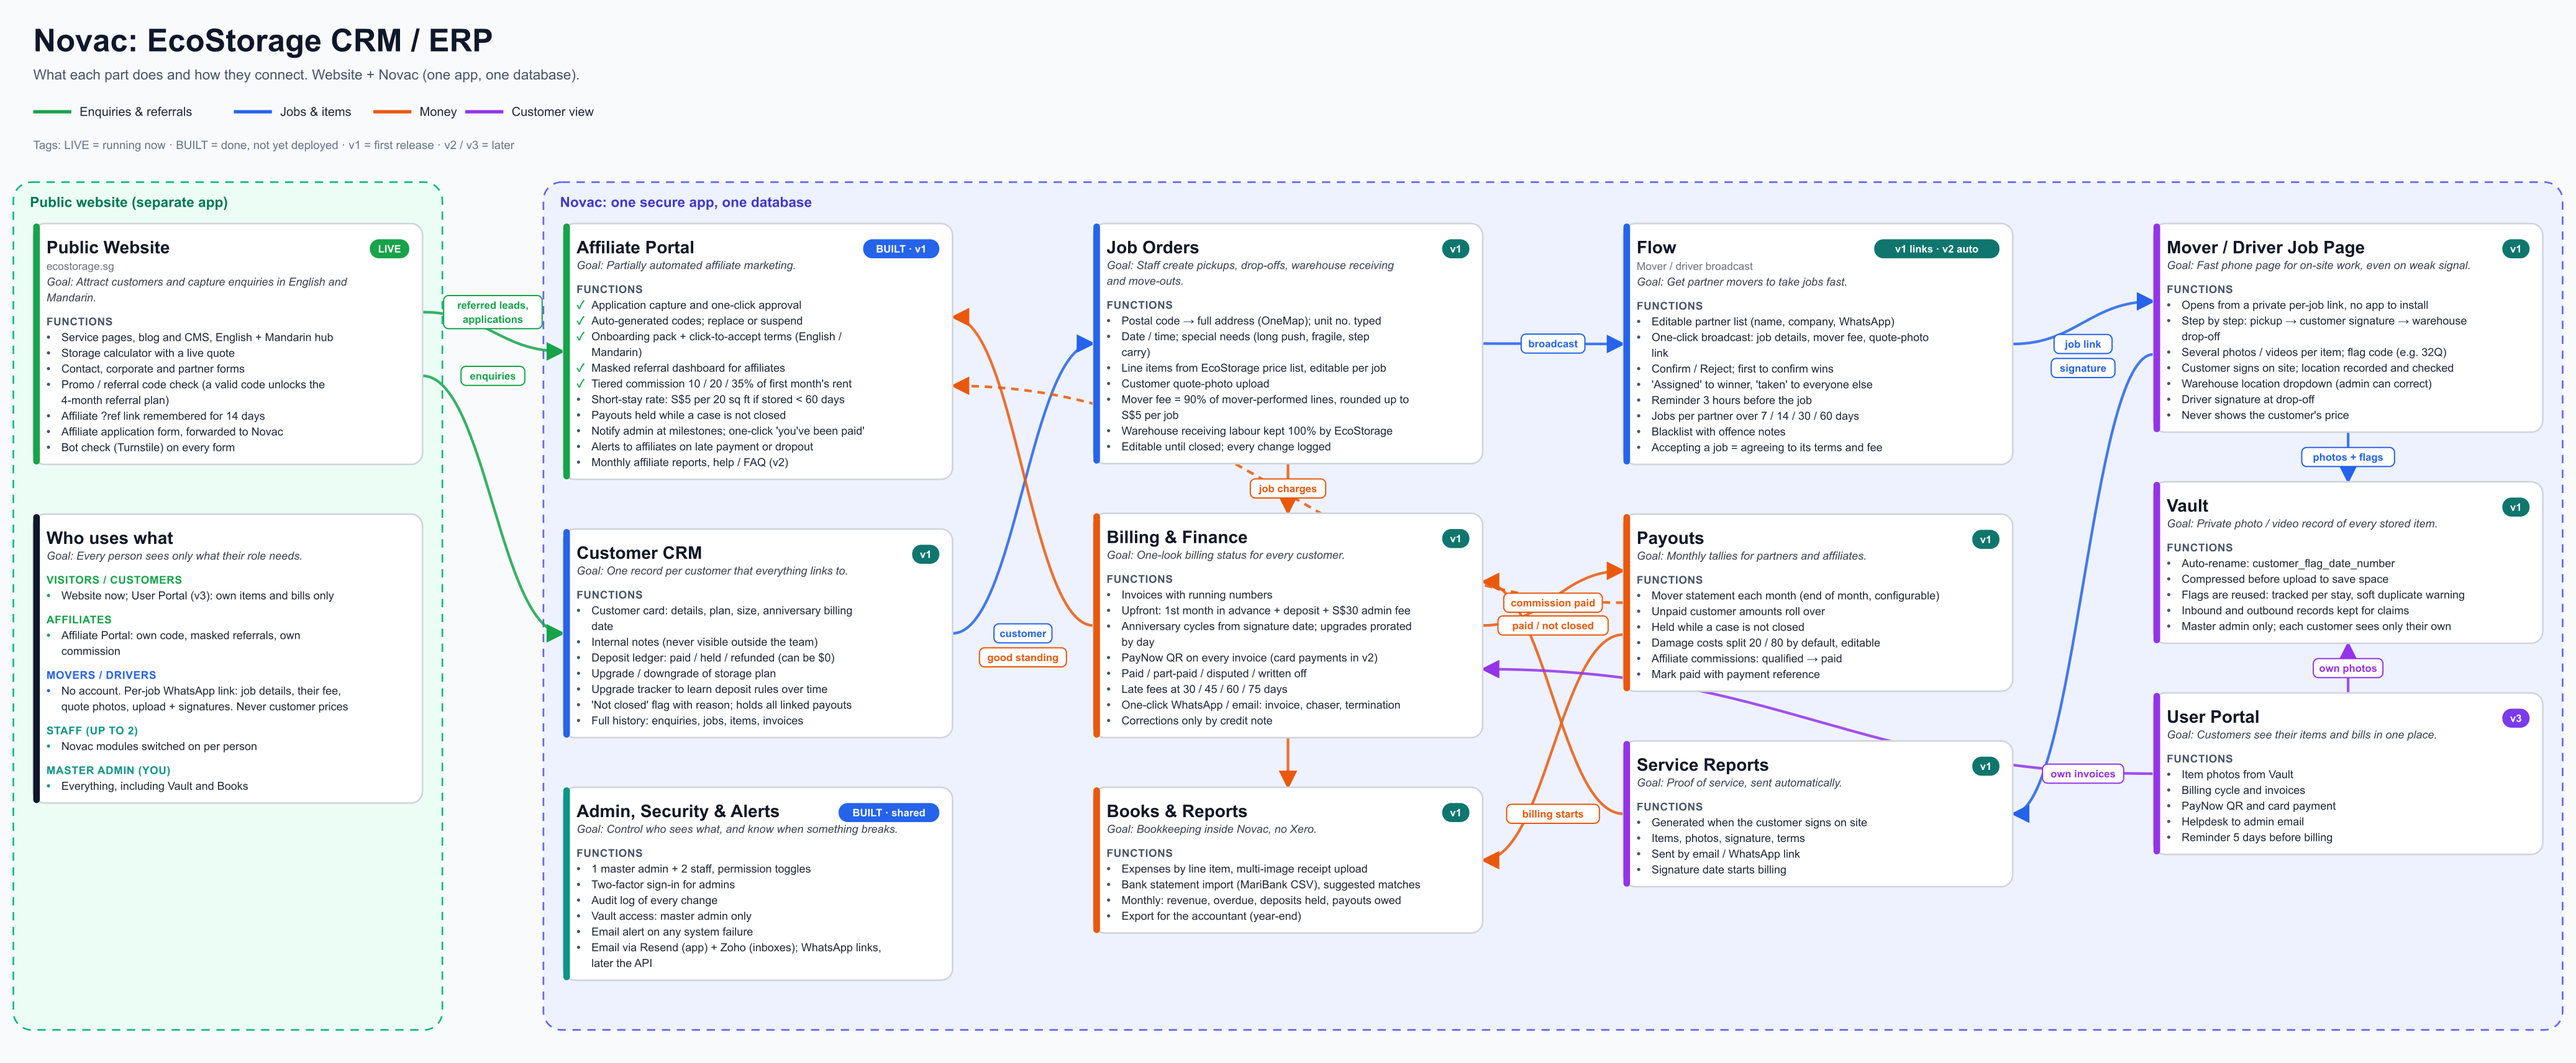
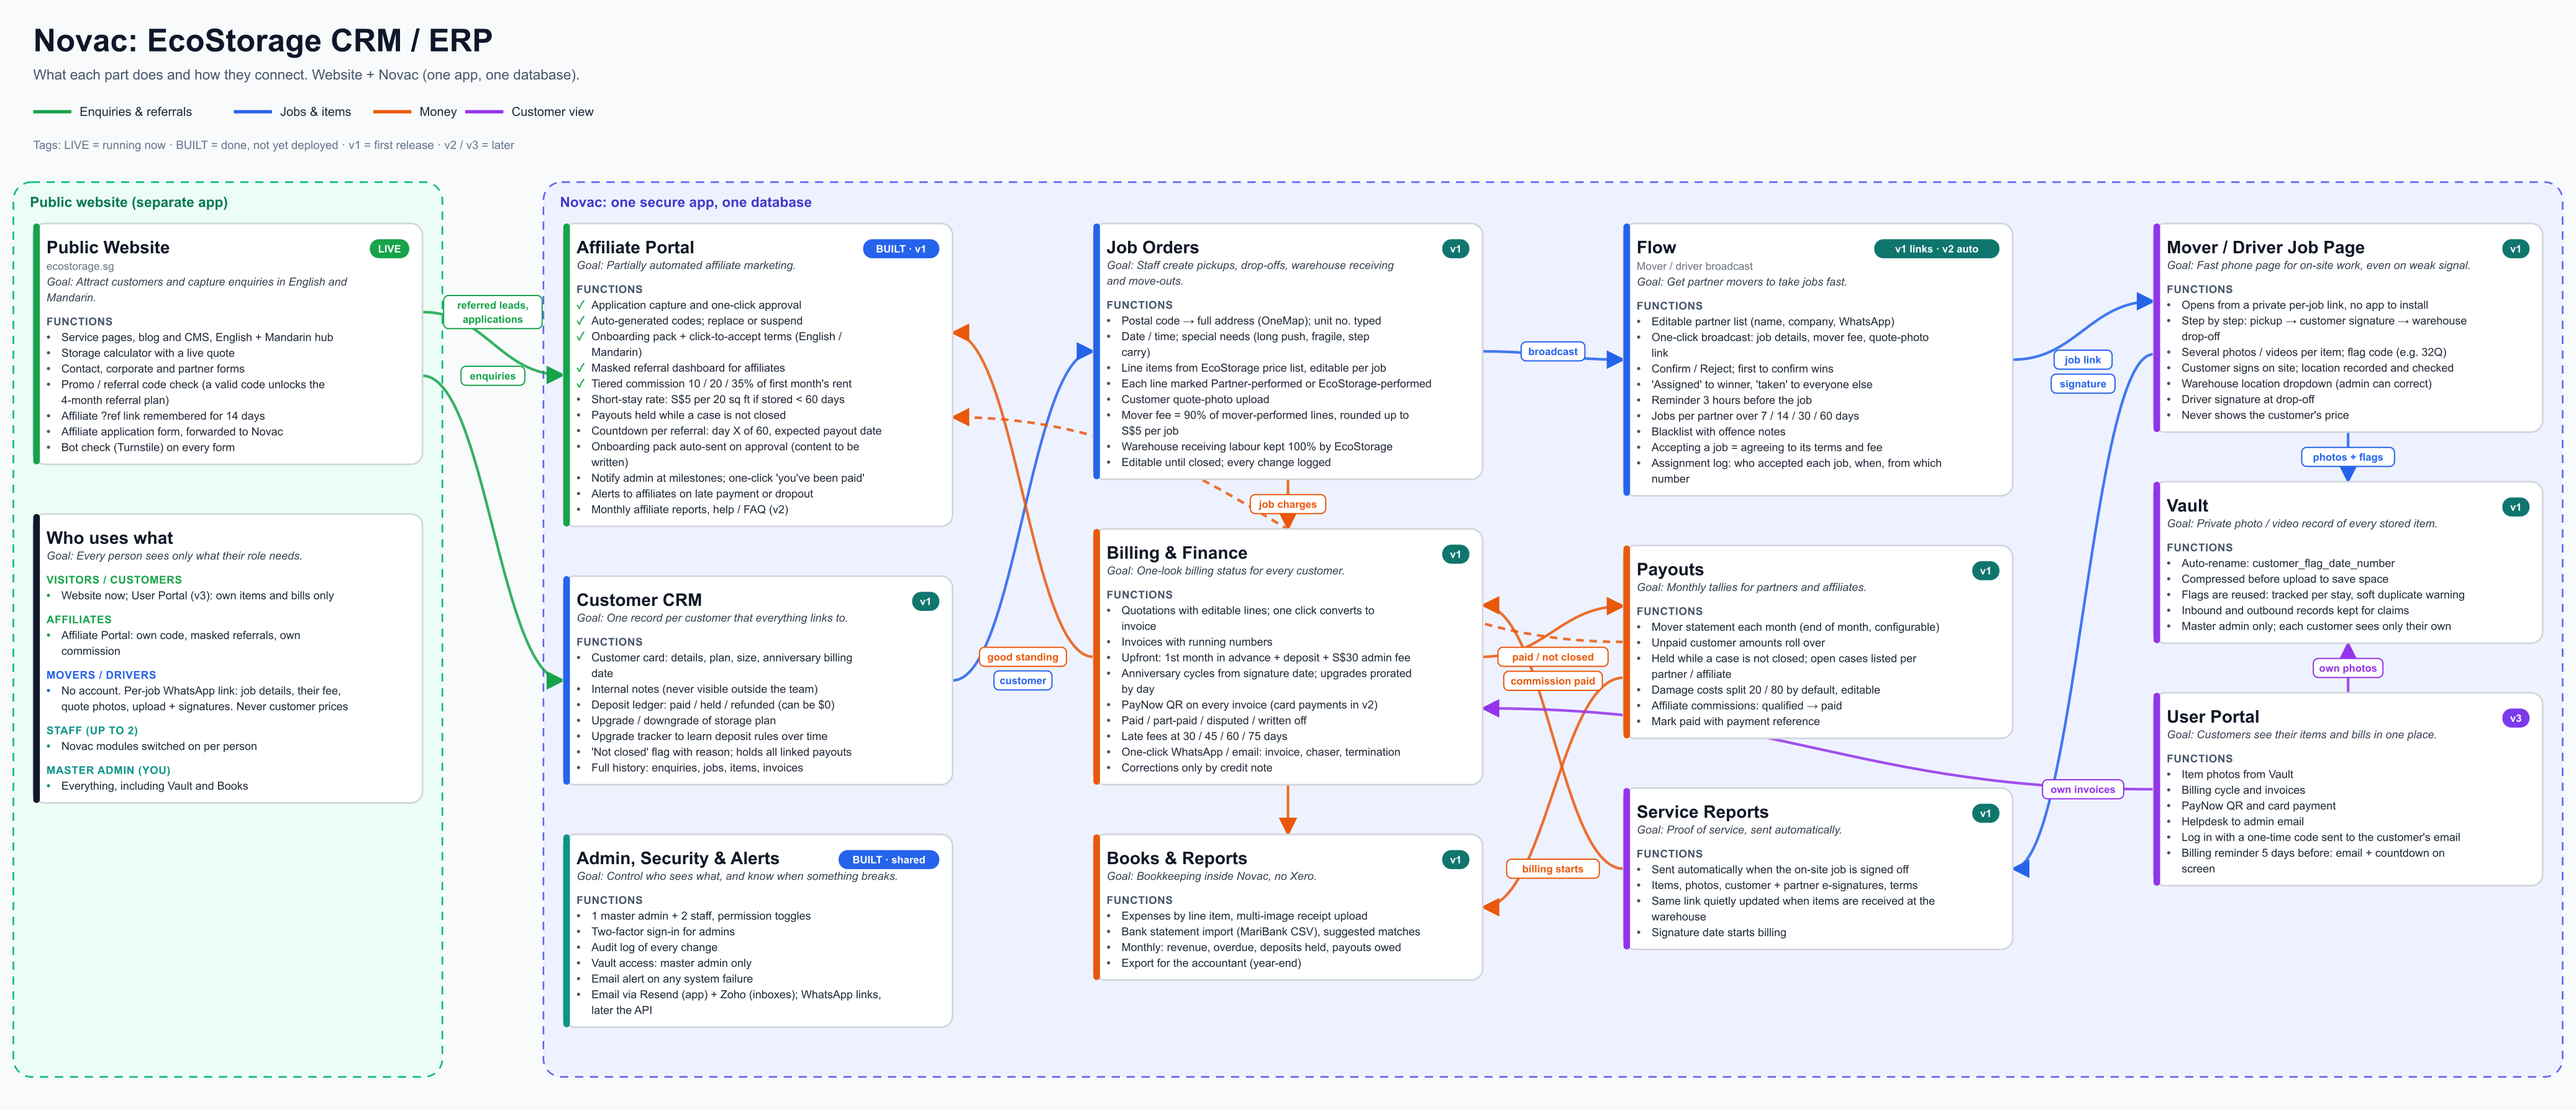
Update Novac maps and decisions after map review

diff --git a/HANDOFF.md b/HANDOFF.md
@@ -226,6 +226,20 @@ section) is finalized.
 - Hosting stays on Vercel (Hobby while building with zero customers; Pro
   when commercial). Main site: keep its own repo; optionally transfer to
   the @ecostorage.sg GitHub org later (domain unchanged, no SEO impact).
+- (2026-10-09, map review) Additions: affiliate referral countdown (day X
+  of 60 + expected payout date; best case payout ~day 90 after signature);
+  User Portal login by one-time code to the customer's CRM email (no
+  self sign-up; Novac "send portal access" button); quotations alongside
+  invoices (own numbering, editable lines, convert to invoice); each job
+  line marked Partner- or EcoStorage-performed (drives Flow message +
+  mover fee); affiliate onboarding pack auto-sent on approval (content
+  later); payout reports list open (not-closed) cases per partner /
+  affiliate; service report sent on on-site sign-off and the same link
+  updated when warehouse inbound completes (trucks often unload next
+  morning); partner e-signature on service reports; job assignment log
+  (who accepted, when, which number, reassignments); portal billing
+  reminder = email + on-screen countdown. Accounts move to
+  jonnylim@ecostorage.sg, but NOT yet (user not ready to build).
 - Maps: docs/novac/novac-functional-map.(svg|png) and
   docs/novac/novac-technical-map.(svg|png).
 
